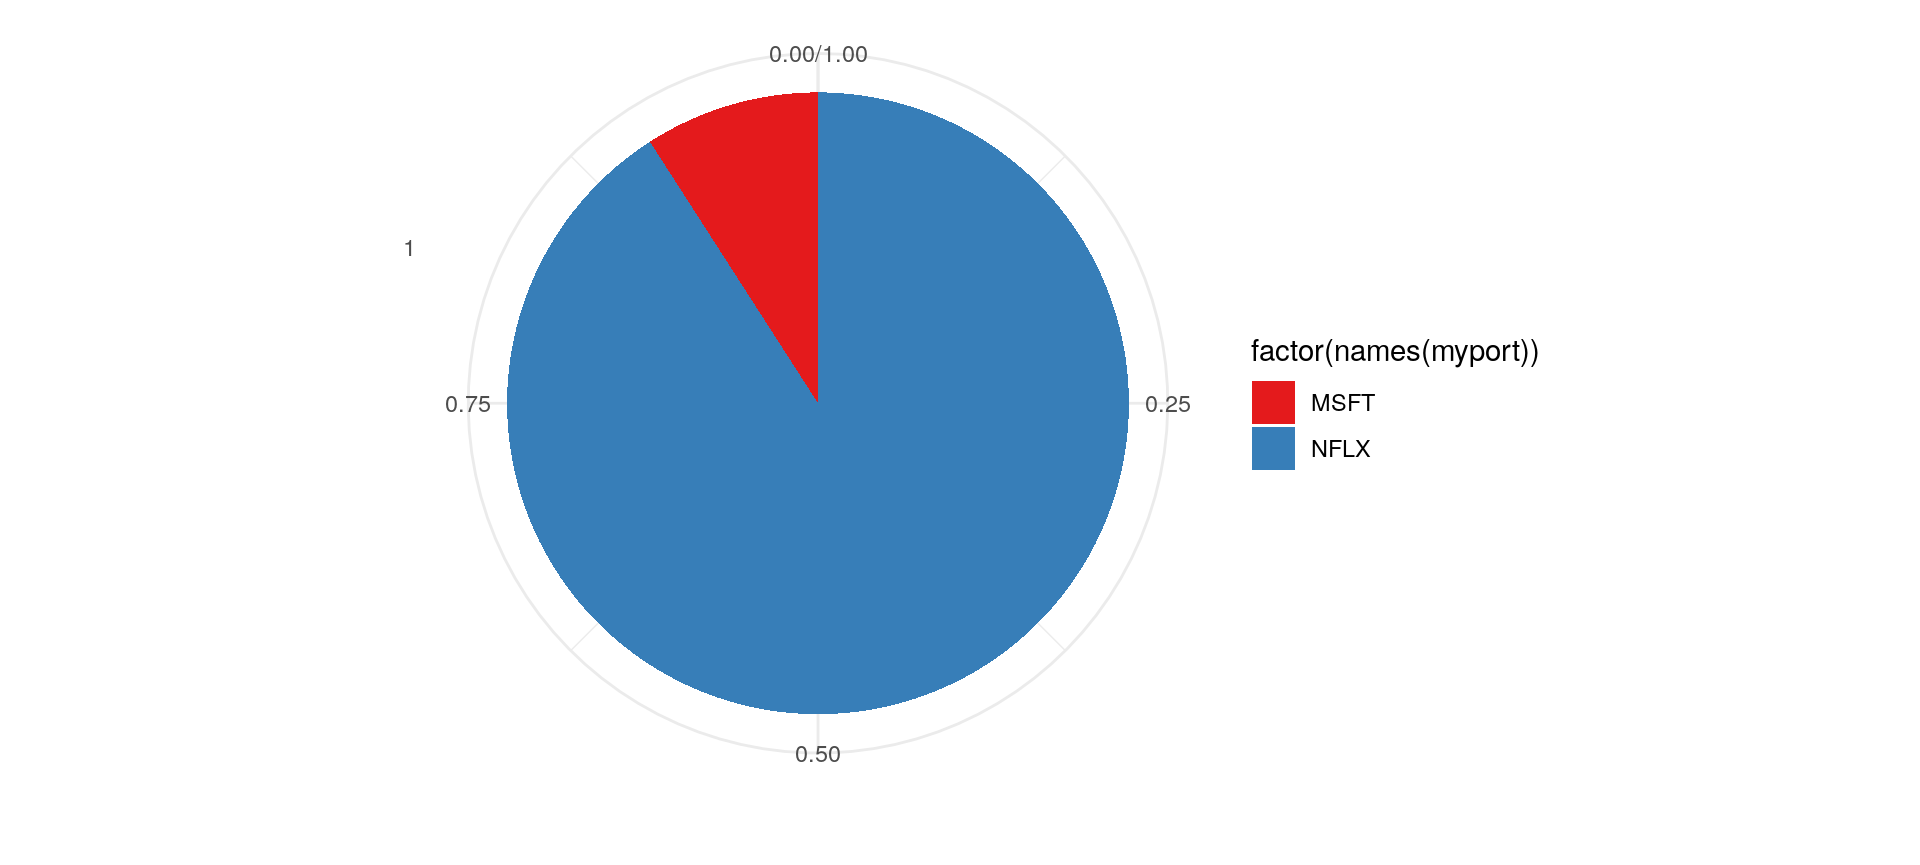
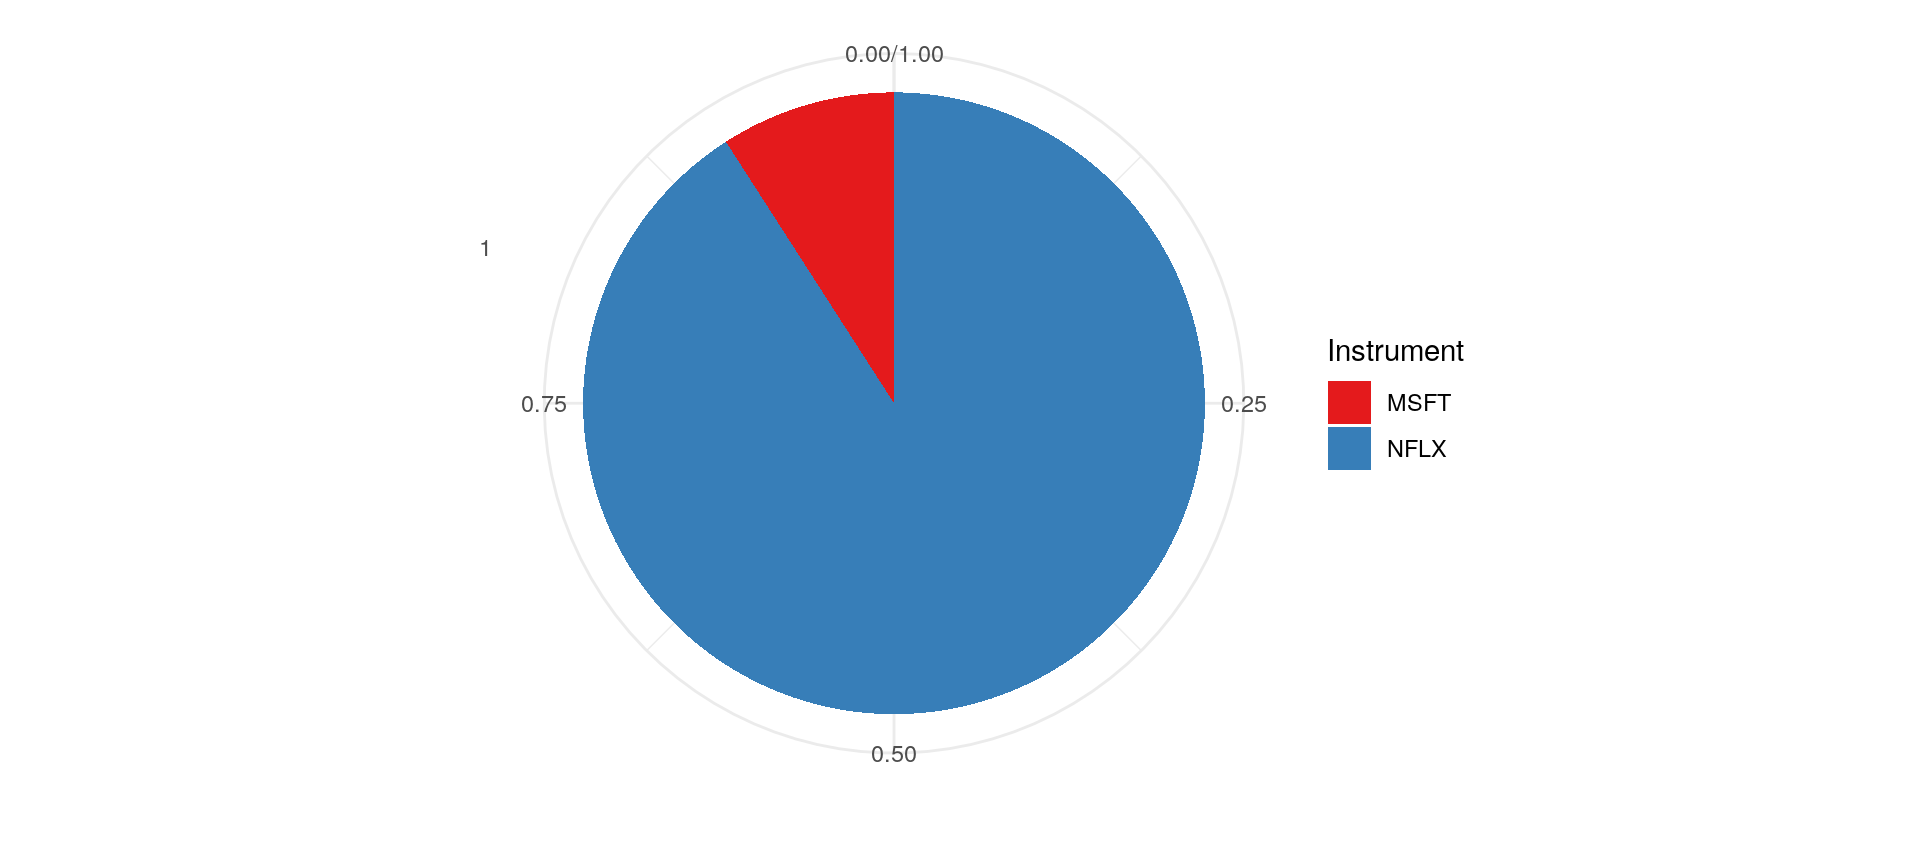
Updated docs.

Changed region(s): [[0.25, 0.0312, 0.8125, 0.874]]

diff --git a/docs/index.html b/docs/index.html
@@ -85,9 +85,9 @@ selectInstrument &lt;-<span class="st"> </span><span class="cf">function</span>(
 <span class="co"># Create a portfolio from these functions</span>
 myport &lt;-<span class="st"> </span><span class="kw"><a href="reference/createPortfolio.html">createPortfolio</a></span>(mylist, selectInstrument, rankInstrument, <span class="dt">topN=</span><span class="dv">3</span>)
 <span class="kw"><a href="http://www.rdocumentation.org/packages/ggplot2/topics/qplot">qplot</a></span>(<span class="dt">x=</span><span class="kw">as.factor</span>(<span class="dv">1</span>), <span class="dt">y=</span>myport, <span class="dt">fill=</span><span class="kw">factor</span>(<span class="kw">names</span>(myport))) <span class="op">+</span><span class="st"> </span>
-<span class="st">  </span><span class="kw"><a href="http://www.rdocumentation.org/packages/ggplot2/topics/geom_bar">geom_bar</a></span>(<span class="dt">stat=</span><span class="st">"identity"</span>, <span class="dt">width =</span> <span class="dv">1</span>) <span class="op">+</span><span class="st"> </span><span class="kw"><a href="http://www.rdocumentation.org/packages/ggplot2/topics/coord_polar">coord_polar</a></span>(<span class="dt">theta =</span> <span class="st">"y"</span>) <span class="op">+</span><span class="st"> </span><span class="kw"><a href="http://www.rdocumentation.org/packages/ggplot2/topics/labs">xlab</a></span>(<span class="st">""</span>) <span class="op">+</span><span class="st"> </span>
-<span class="st">  </span><span class="kw"><a href="http://www.rdocumentation.org/packages/ggplot2/topics/labs">ylab</a></span>(<span class="st">""</span>) <span class="op">+</span><span class="st"> </span><span class="kw"><a href="http://www.rdocumentation.org/packages/ggplot2/topics/ggtheme">theme_minimal</a></span>() <span class="op">+</span><span class="st"> </span><span class="kw"><a href="http://www.rdocumentation.org/packages/ggplot2/topics/scale_hue">scale_fill_discrete</a></span>(<span class="st">"Instrument"</span>) <span class="op">+</span><span class="st"> </span>
-<span class="st">  </span><span class="kw"><a href="http://www.rdocumentation.org/packages/ggplot2/topics/scale_brewer">scale_fill_brewer</a></span>(<span class="dt">type =</span> <span class="st">"qual"</span>, <span class="dt">palette =</span> <span class="dv">6</span>)</code></pre></div>
+<span class="st">  </span><span class="kw"><a href="http://www.rdocumentation.org/packages/ggplot2/topics/geom_bar">geom_bar</a></span>(<span class="dt">stat=</span><span class="st">"identity"</span>, <span class="dt">width =</span> <span class="dv">1</span>) <span class="op">+</span><span class="st"> </span><span class="kw"><a href="http://www.rdocumentation.org/packages/ggplot2/topics/coord_polar">coord_polar</a></span>(<span class="dt">theta =</span> <span class="st">"y"</span>) <span class="op">+</span><span class="st"> </span>
+<span class="st">  </span><span class="kw"><a href="http://www.rdocumentation.org/packages/ggplot2/topics/labs">xlab</a></span>(<span class="st">""</span>) <span class="op">+</span><span class="st"> </span><span class="kw"><a href="http://www.rdocumentation.org/packages/ggplot2/topics/labs">ylab</a></span>(<span class="st">""</span>) <span class="op">+</span><span class="st"> </span><span class="kw"><a href="http://www.rdocumentation.org/packages/ggplot2/topics/ggtheme">theme_minimal</a></span>() <span class="op">+</span><span class="st"> </span>
+<span class="st">  </span><span class="kw"><a href="http://www.rdocumentation.org/packages/ggplot2/topics/scale_brewer">scale_fill_brewer</a></span>(<span class="st">"Instrument"</span>, <span class="dt">type =</span> <span class="st">"qual"</span>, <span class="dt">palette =</span> <span class="dv">6</span>)</code></pre></div>
 <p><img src="README-portfoliocreation-1.png" width="960"></p>
 </div>
 </div>

diff --git a/datrader/README.md b/datrader/README.md
@@ -25,9 +25,9 @@ selectInstrument <- function(x) rankInstrument(x) > 5
 # Create a portfolio from these functions
 myport <- createPortfolio(mylist, selectInstrument, rankInstrument, topN=3)
 qplot(x=as.factor(1), y=myport, fill=factor(names(myport))) + 
-  geom_bar(stat="identity", width = 1) + coord_polar(theta = "y") + xlab("") + 
-  ylab("") + theme_minimal() + scale_fill_discrete("Instrument") + 
-  scale_fill_brewer(type = "qual", palette = 6)
+  geom_bar(stat="identity", width = 1) + coord_polar(theta = "y") + 
+  xlab("") + ylab("") + theme_minimal() + 
+  scale_fill_brewer("Instrument", type = "qual", palette = 6)
 ```
 
 ![](README-portfoliocreation-1.png)
